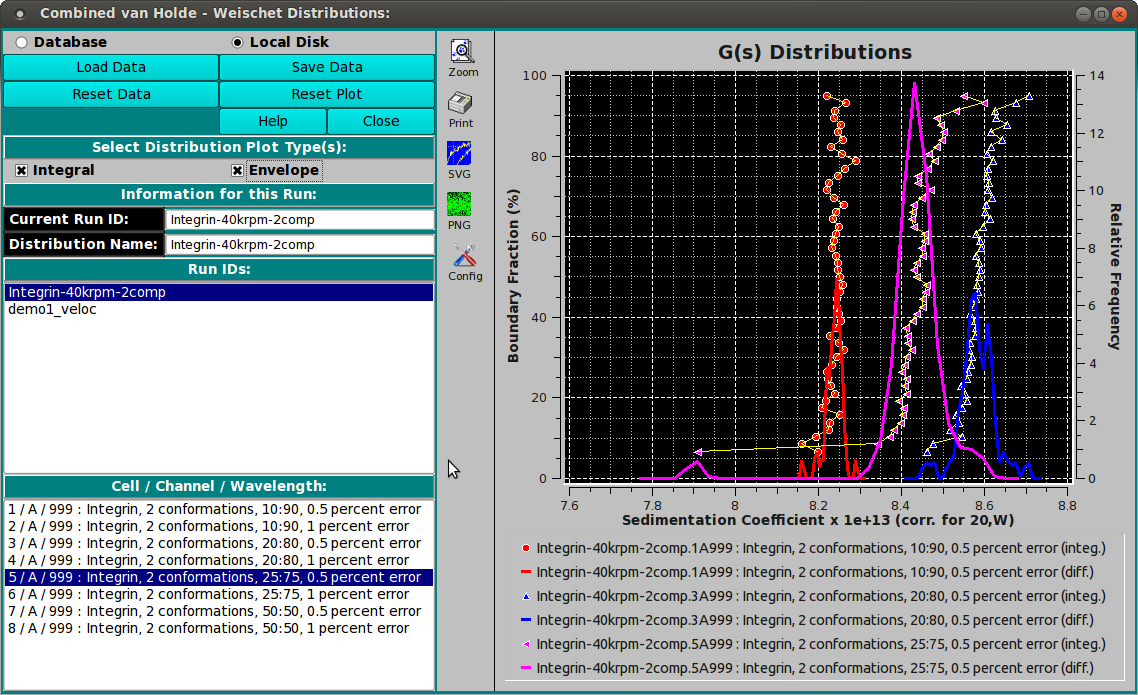
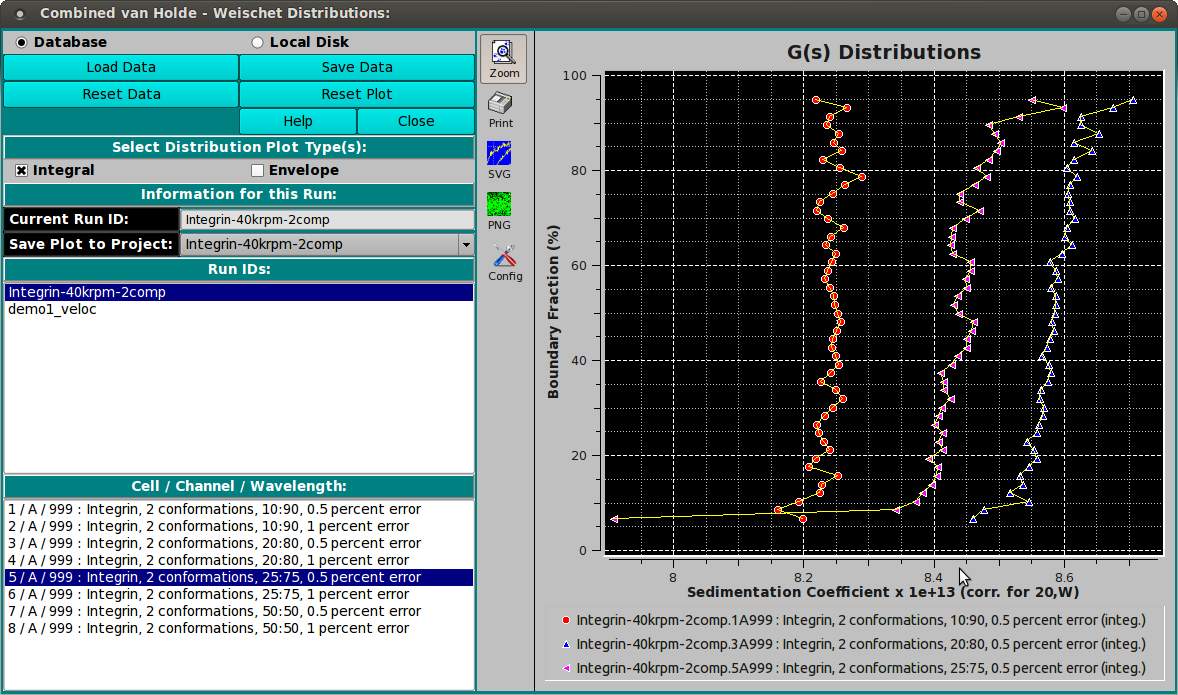
add selectable save plot project, including All
git-svn-id: svn://bcf2.uthscsa.edu/ultrascan3/trunk@1356 0b344138-67e3-44e0-be2b-e1ba3e4701c6

diff --git a/programs/us_vhw_combine/us_vhw_combine.cpp b/programs/us_vhw_combine/us_vhw_combine.cpp
@@ -52,17 +52,21 @@ US_vHW_Combine::US_vHW_Combine() : US_Widgets()
    dkdb_cntrls             = new US_Disk_DB_Controls(
          US_Settings::default_data_location() );
    QPushButton* pb_loadda  = us_pushbutton( tr( "Load Data"  ) );
-   QPushButton* pb_saveda  = us_pushbutton( tr( "Save Data"  ) );
-   QPushButton* pb_resetd  = us_pushbutton( tr( "Reset Data" ) );
-   QPushButton* pb_resetp  = us_pushbutton( tr( "Reset Plot" ) );
+                pb_saveda  = us_pushbutton( tr( "Save Data"  ) );
+                pb_resetd  = us_pushbutton( tr( "Reset Data" ) );
+                pb_resetp  = us_pushbutton( tr( "Reset Plot" ) );
    QPushButton* pb_help    = us_pushbutton( tr( "Help"       ) );
    QPushButton* pb_close   = us_pushbutton( tr( "Close"      ) );
+
+   pb_saveda->setEnabled( false );
+   pb_resetd->setEnabled( false );
+   pb_resetp->setEnabled( false );
 
    QLabel* lb_distrtype  = us_banner(
          tr( "Select Distribution Plot Type(s):" ) );
    QLabel* lb_runinfo    = us_banner( tr( "Information for this Run:" ) );
    QLabel* lb_runid      = us_label ( tr( "Current Run ID:" ) );
-   QLabel* lb_distname   = us_label ( tr( "Distribution Name:" ) );
+   QLabel* lb_svproj     = us_label ( tr( "Save Plot to Project:" ) );
    QLabel* lb_runids     = us_banner( tr( "Run IDs:"                  ) );
    QLabel* lb_triples    = us_banner( tr( "Cell / Channel / Wavelength:" ) );
 
@@ -70,7 +74,7 @@ US_vHW_Combine::US_vHW_Combine() : US_Widgets()
    QLayout* lo_envelope = us_checkbox( tr( "Envelope" ), ck_envelope, false );
 
    le_runid      = us_lineedit( "(current run ID)", -1, true );
-   le_distname   = us_lineedit( "(output distribution name)", -1, true );
+   cmb_svproj    = us_comboBox();
    lw_runids     = us_listwidget();
    lw_triples    = us_listwidget();
 
@@ -88,8 +92,8 @@ US_vHW_Combine::US_vHW_Combine() : US_Widgets()
    leftLayout->addWidget( lb_runinfo,   row++, 0, 1, 8 );
    leftLayout->addWidget( lb_runid,     row,   0, 1, 3 );
    leftLayout->addWidget( le_runid,     row++, 3, 1, 5 );
-   leftLayout->addWidget( lb_distname,  row,   0, 1, 3 );
-   leftLayout->addWidget( le_distname,  row++, 3, 1, 5 );
+   leftLayout->addWidget( lb_svproj,    row,   0, 1, 3 );
+   leftLayout->addWidget( cmb_svproj,   row++, 3, 1, 5 );
    leftLayout->addWidget( lb_runids,    row++, 0, 1, 8 );
    leftLayout->addWidget( lw_runids,    row,   0, 3, 8 );
    row    += 3;
@@ -158,14 +162,14 @@ US_vHW_Combine::US_vHW_Combine() : US_Widgets()
    mainLayout ->setStretchFactor( rightLayout, 5 );
 
    le_runid   ->setText( "(current run ID)" );
-   le_distname->setText( "(output distribution name)" );
+   cmb_svproj ->addItem( "(project name for plot save)" );
 
    adjustSize();
-   int hh  = lb_distname->height();
-   int ww  = lb_distname->width() / 3;
+   int hh  = lb_svproj->height();
+   int ww  = lb_svproj->width() / 3;
    lw_runids  ->setMinimumHeight( hh * 3 );
    lw_triples ->setMinimumHeight( hh * 5 );
-   le_distname->setMinimumWidth ( ww * 5 );
+   cmb_svproj ->setMinimumWidth ( ww * 5 );
    for ( int ii = 0; ii < 8; ii++ )
       leftLayout ->setColumnMinimumWidth( ii, ww );
    leftLayout ->setColumnStretch     ( 0, 1  );
@@ -361,20 +365,30 @@ DbgLv(1) << "  epath" << epath;
    }
 
    int nrunids = runids.count();
+   int nsprojs = cmb_svproj->count();
+
+   if ( nsprojs == 1 )
+      cmb_svproj->clear();
+   else
+      cmb_svproj->removeItem( nsprojs - 1 );
 
    for ( int ii = 0; ii < nrunids; ii++ )
    {
       lw_runids->addItem( runids[ ii ] );
+      cmb_svproj->addItem( runids[ ii ] );
    }
+
+   cmb_svproj->addItem( "All" );
 
    int nlitems = lw_runids->count();
    le_runid->setText( runids[ 0 ] );
 
    if ( nrunids == nlitems )
    {
-      le_distname->setText( runids[ 0 ] );
       adjustSize();
    }
+
+   pb_resetd->setEnabled( true );
 }
 
 // Reset data: remove all loaded data and clear plots
@@ -386,9 +400,12 @@ void US_vHW_Combine::reset_data( void )
    lw_runids  ->clear();
    lw_triples ->clear();
    le_runid   ->clear();
-   le_distname->clear();
+   cmb_svproj ->clear();
 
    reset_plot();
+
+   pb_resetd->setEnabled( false );
+   pb_resetp->setEnabled( false );
 }
 
 // Reset plot:  Clear plots and lists of plotted data
@@ -400,6 +417,7 @@ void US_vHW_Combine::reset_plot( void )
 
    pdistrs.clear();
    pdisIDs.clear();
+   pb_saveda->setEnabled( false );
 
    lw_triples ->setCurrentRow( -1 );
 }
@@ -494,33 +512,41 @@ DbgLv(2) << "   xsn yfn" << xs[kk-1] << yf[kk-1];
 // Save the plot data
 void US_vHW_Combine::save( void )
 {
+   QString oproj    = cmb_svproj->currentText();
+   QString runID    = ( oproj == "All" ) ? pdistrs[ 0 ].runID : oproj;
    QString trname   = pdistrs[ 0 ].triple;
    QString trfirst  = pdistrs[ 0 ].triple;
-   QString runID    = pdistrs[ 0 ].runID;
    QString fdir     = US_Settings::reportDir() + "/" + runID;
    QString fnamsvg  = "vHW.0Z9999.combo-distrib.svg";
    QString fnampng  = "vHW.0Z9999.combo-distrib.png";
    QString plotFile = fdir + "/" + fnamsvg;
    QStringList prunids;
    QList< int > prndxs;
-   prunids << runID;
-   prndxs  << 0;
-   int     nruns    = 1;
-   int     iruns    = 0;
-   QString svmsg    = tr( "Saved:\n    " ) + fnampng + "\n    " + fnamsvg + "\n";
+   QString svmsg   = tr( "Saved:\n    " ) + fnampng + "\n    " + fnamsvg + "\n";
 
    // Look for multiple run IDs
    for ( int ii = 0; ii < pdistrs.size(); ii++ )
    {
       QString prun     = pdistrs[ ii ].runID;
-      if ( ! prunids.contains( prun ) )
-      {
+      if ( oproj == "All" )
+      {  // If save-plot project is "All", save lists of runids and indexes
+         if ( ! prunids.contains( prun ) )
+         {
+            prunids << prun;
+            prndxs  << ii;
+         }
+      }
+
+      else if ( prun == runID )
+      {  // If save-plot project matches current run, save it and its index
          prunids << prun;
          prndxs  << ii;
+         break;
       }
    }
 
-   nruns   = prunids.size();
+   int     iruns   = 0;
+   int     nruns   = prunids.size();
 
    while( iruns < nruns )
    {
@@ -618,6 +644,11 @@ DbgLv(1) << "RunIDSel:  ii runID" << ii << distros[ii].runID;
             distros[ ii ].triple ) + " : " + distros[ ii ].tdescr );
       }
    }
+
+   if ( pdistrs.size() == 0 )
+   {
+      cmb_svproj->setCurrentIndex( cmb_svproj->findText( runID ) );
+   }
 }
 
 // Triple selected
@@ -651,6 +682,10 @@ DbgLv(1) << "TripleSel:triple" << triple;
 
    else
       plot_data();
+
+   pb_saveda->setEnabled( true );
+   pb_resetd->setEnabled( true );
+   pb_resetp->setEnabled( true );
 }
 
 // Assign symbol and color for a distribution

diff --git a/programs/us_vhw_combine/us_vhw_combine.h b/programs/us_vhw_combine/us_vhw_combine.h
@@ -48,8 +48,13 @@ class US_vHW_Combine : public US_Widgets
       QStringList    distIDs;          // All distribs. IDs
       QStringList    pdisIDs;          // Plotted distribs. IDs
 
+      QPushButton*   pb_saveda;
+      QPushButton*   pb_resetd;
+      QPushButton*   pb_resetp;
+
       QLineEdit*     le_runid;
-      QLineEdit*     le_distname;
+
+      QComboBox*     cmb_svproj;
 
       QListWidget*   lw_runids;
       QListWidget*   lw_triples;
